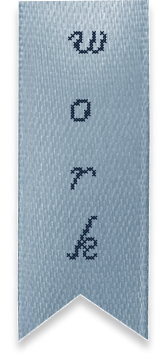
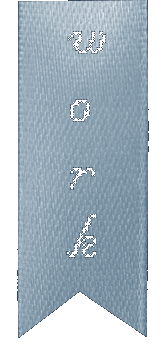
Update About lace nav stamps and left-align Brilliant Cities on home.
Match the About header to the three-stamp Figma nav and move the Brilliant card flush with the left project column.

diff --git a/about.html b/about.html
@@ -12,7 +12,7 @@
   <title>About me · Allison Qiu</title>
   <link rel="stylesheet" href="styles/main.css?v=wipe6">
   <link rel="stylesheet" href="styles/brilliant.css">
-  <link rel="stylesheet" href="styles/about.css?v=introStretch1">
+  <link rel="stylesheet" href="styles/about.css?v=aboutNav2">
 </head>
 <body class="bc-page about-page">
   <div class="bc-canvas-wrapper">
@@ -21,7 +21,10 @@
         <div class="bc-header__inner about-header__inner">
           <nav class="bc-header__nav" aria-label="Primary">
             <a class="bc-stamp bc-stamp--work" href="/" data-scroll-to="my-work" aria-label="View my work">
-              <img src="assets/about/nav-work.png?v=lace1" alt="" width="164" height="363">
+              <img src="assets/about/nav-work.png?v=aboutNav2" alt="" width="163" height="360">
+            </a>
+            <a class="bc-stamp bc-stamp--about" href="/about" aria-label="About me" aria-current="page">
+              <img src="assets/about/nav-about.png?v=aboutNav2" alt="" width="367" height="149">
             </a>
             <a
               class="bc-stamp bc-stamp--resume"
@@ -30,7 +33,7 @@
               rel="noopener noreferrer"
               aria-label="Resume"
             >
-              <img src="assets/about/nav-resume.png?v=lace1" alt="" width="384" height="166">
+              <img src="assets/about/nav-resume.png?v=aboutNav2" alt="" width="381" height="165">
             </a>
           </nav>
           <a class="bc-header__name" href="/">allison qiu</a>

diff --git a/styles/about.css b/styles/about.css
@@ -6,26 +6,34 @@
 }
 
 .about-header__inner {
-  min-height: 178px;
+  min-height: 178px; /* Figma Group 25 / Frame 44 */
 }
 
-/* Keep work + resume stamps visible (don't clip the lace stamp) */
+/* Keep work + about + resume stamps visible (don't clip lace / drop shadow) */
 .about-page .bc-header,
 .about-page .bc-header__inner,
 .about-page .bc-header__nav {
   overflow: visible;
 }
 
+.about-page .bc-header__nav {
+  gap: 31.73px; /* Figma Frame 46 stamp gap */
+}
+
+/* Lace stamps · Figma Groups 3 / 4 / 22 · sizes include baked shadow */
 .about-page .bc-stamp--work {
-  width: 73.93px;
-  height: 173.44px;
+  width: 73.32px;
+  height: 172px;
+}
+
+.about-page .bc-stamp--about {
+  width: 183.5px; /* 367×149 @2x export */
+  height: 74.5px;
 }
 
 .about-page .bc-stamp--resume {
-  display: block;
-  width: 184px; /* Figma Group 22 */
-  height: 75px;
-  flex-shrink: 0;
+  width: 190.5px; /* 381×165 @2x export */
+  height: 82.5px;
 }
 
 .about-main {

diff --git a/styles/main.css b/styles/main.css
@@ -583,7 +583,7 @@ html.aq-wipe-cover::before {
 
 /*
   Card grid · Figma Frame 29 · My work px 64, pt 40, title→cards +84,
-  cards 632×563.65 (rows 1–2), Brilliant 640×546.14 centered at x 400
+  cards 632×563.65 (rows 1–2), Brilliant 640×546.14 left-aligned at x 64
 */
 .home-card--terraform {
   left: 64px;
@@ -614,7 +614,7 @@ html.aq-wipe-cover::before {
 }
 
 .home-card--brilliant {
-  left: 400px;
+  left: 64px;
   top: 2143.3px;
   width: 640px;
   height: 546.14px;

diff --git a/index.html b/index.html
@@ -24,7 +24,7 @@
   <meta name="twitter:image" content="https://www.allisonqiu.com/assets/og-cover.png" />
 
   <title>Allison Qiu</title>
-  <link rel="stylesheet" href="styles/main.css?v=introSelect2">
+  <link rel="stylesheet" href="styles/main.css?v=brilliantLeft1">
 </head>
 <body>
   <!--
